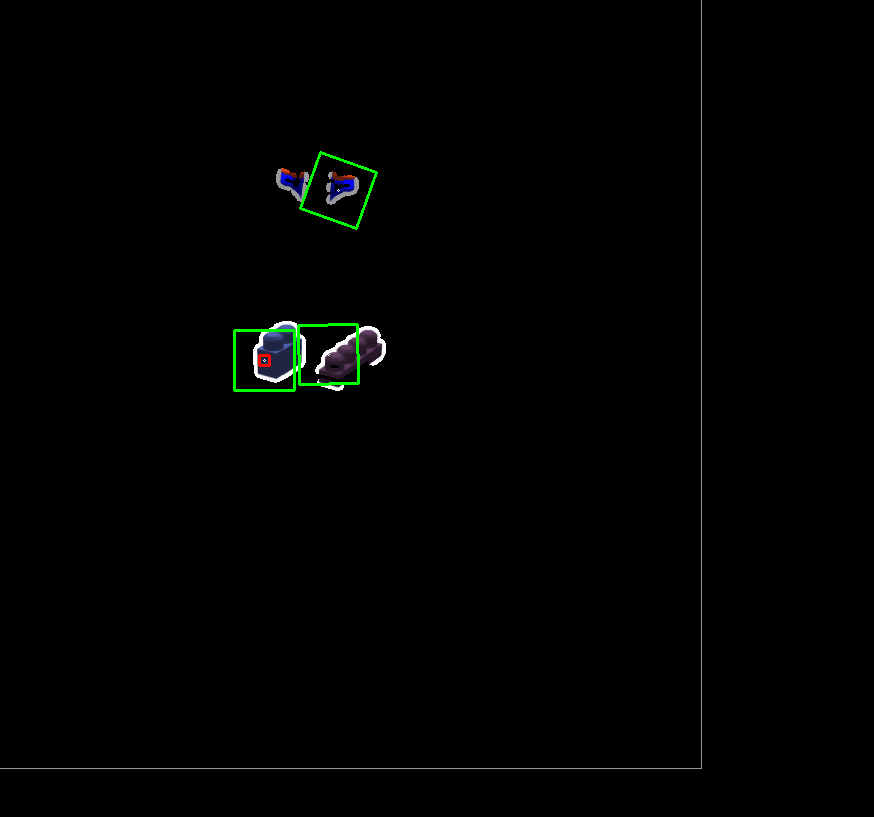
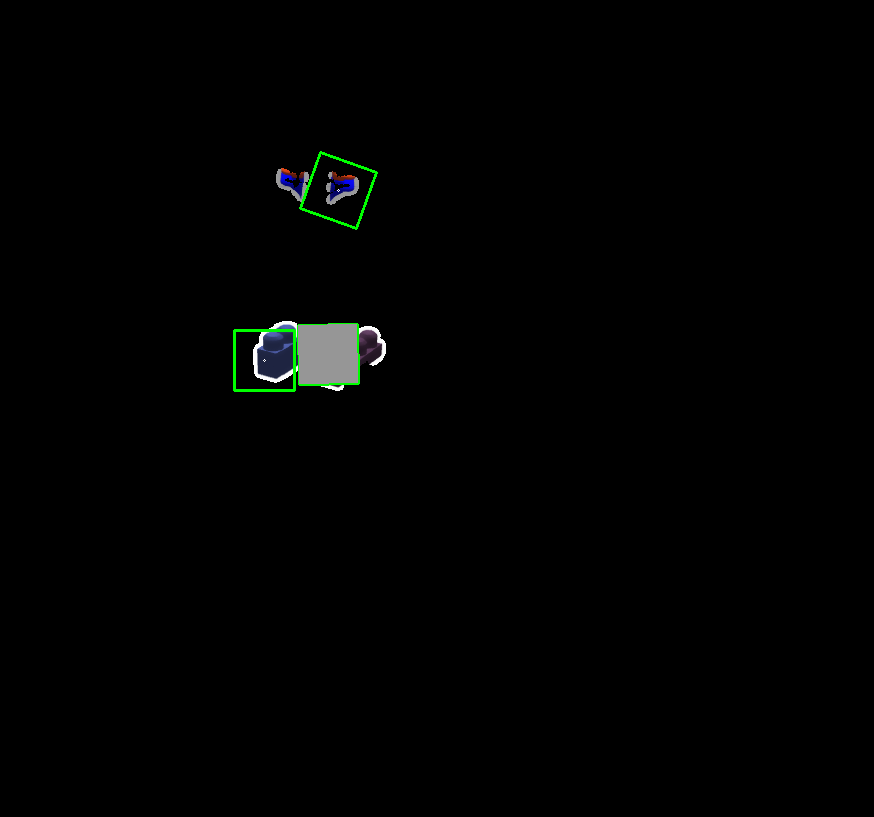
Approximation of working recognition

Changed region(s): [[0.3398, 0.3978, 0.4325, 0.4896], [0.278, 0.4284, 0.3089, 0.459]]

diff --git a/catkin_ws/src/pkg__detection/src/libraries/location_handler.cpp b/catkin_ws/src/pkg__detection/src/libraries/location_handler.cpp
@@ -1,7 +1,7 @@
 #include "location_handler.h"
 
-cv::Vec4f LocationHandler::selectDetection(std::vector<cv::Vec4f> detections, int width, int height) {
-    if (detections.empty()) {return cv::Vec4f(0.0f, 0.0f, 0.0f, 0.0f);}
+Types::RecognitionResult LocationHandler::selectDetection(std::vector<Types::RecognitionResult> detections, int width, int height) {
+    if (detections.empty()) {return Types::RecognitionResult();}
     
     // Select the detection that is cloasest to the center
     int mid_x = (float)width / 2;
@@ -10,9 +10,9 @@ cv::Vec4f LocationHandler::selectDetection(std::vector<cv::Vec4f> detections, in
     int i = 0;
     int selected = 0;
     float dist = 0;
-    for (cv::Vec4f det : detections) {
+    for (Types::RecognitionResult det : detections) {
 
-        float distance = sqrt(pow(abs(mid_x - det[0]),2) + pow(abs(mid_y - det[1]),2));
+        float distance = sqrt(pow(abs(mid_x - det.detection_rect[0]),2) + pow(abs(mid_y - det.detection_rect[1]),2));
 
         if (i == 0) {
             dist = distance;
@@ -29,17 +29,17 @@ cv::Vec4f LocationHandler::selectDetection(std::vector<cv::Vec4f> detections, in
     return detections[selected];
 }
 
-std::vector<cv::Point2i> LocationHandler::RRect2Contour(cv::Vec4f data, cv::Size2i size) {
+std::vector<cv::Point2i> LocationHandler::RRect2Contour(Types::RecognitionResult selected) {
     std::vector<cv::Point2i> contour;
 
-    cv::RotatedRect rect = cv::RotatedRect (cv::Point2f(data[0], data[1]), 
-                                            cv::Size2f(size.width * data[2], size.height * data[2]), 
-                                            data[3]);
+    cv::RotatedRect rect = cv::RotatedRect (cv::Point2f(selected.detection_rect[0], selected.detection_rect[1]), 
+                                            cv::Size2f(selected.template_size.width * selected.detection_rect[2], selected.template_size.height * selected.detection_rect[2]), 
+                                            selected.detection_rect[3]);
 
     for (int i = 0; i < 4; i++) {
-        std::cout << "Vector#" << i << " " << data[i] << std::endl;
+        std::cout << "Vector#" << i << " " << selected.detection_rect[i] << std::endl;
     }
-    std::cout << "TWidth: " << size.width << " THeight: " << size.height << std::endl;
+    std::cout << "TWidth: " << selected.template_size.width << " THeight: " << selected.template_size.height << std::endl;
 
     cv::Point2f vertices[4];
     rect.points(vertices);
@@ -52,16 +52,16 @@ std::vector<cv::Point2i> LocationHandler::RRect2Contour(cv::Vec4f data, cv::Size
     return contour;
 }
 
-cv::Vec3f LocationHandler::extrapolateDetectionPosition(cv::Mat img, cv::Vec4f selected, cv::Mat point_cloud_array, cv::Size2i template_size) {
+cv::Vec3f LocationHandler::extrapolateDetectionPosition(cv::Mat img, Types::RecognitionResult selected, cv::Mat point_cloud_array) {
 
     
-    std::vector<cv::Point2i> contour = LocationHandler::RRect2Contour(selected, template_size); 
+    std::vector<cv::Point2i> contour = LocationHandler::RRect2Contour(selected); 
     for (int i = 0; i < contour.size(); i++) {
         std::cout << "ContPt#" << i << " [" << contour[i].x << "," << contour[i].y << "]" << std::endl;
     }
 
     //MIDPOINT STUFF
-    cv::Vec4f midpoint = point_cloud_array.at<cv::Vec4f>(selected[0], selected[1]);
+    cv::Vec4f midpoint = point_cloud_array.at<cv::Vec4f>(selected.detection_rect[0], selected.detection_rect[1]);
     float midpoint_distance = midpoint[3];
 
     //AVERAGE STUFF
@@ -77,10 +77,10 @@ cv::Vec3f LocationHandler::extrapolateDetectionPosition(cv::Mat img, cv::Vec4f s
     auto pcl_lambda = [&] (f32_Pixel &pixel, const int *position) {
         int row = position[0];
         int col = position[1];
-        if (!cv::pointPolygonTest(contour, cv::Point2f((float)col,(float)row), false)) {return;}
+        if (cv::pointPolygonTest(contour, cv::Point2f((float)col,(float)row), false) != 1) {return;}
 
         float distance = sqrt(pow(pixel.x,2) + pow(pixel.y,2) + pow(pixel.z,2));
-        if (distance < 0.01f) {return;}
+        if (distance < 0.001f) {return;}
 
         float abs_dist_form_midpoint = abs(midpoint_distance - distance);
         float weight = 1 / (1 + abs_dist_form_midpoint); //Karis weight
@@ -96,7 +96,7 @@ cv::Vec3f LocationHandler::extrapolateDetectionPosition(cv::Mat img, cv::Vec4f s
     auto img_lambda = [&] (ui8_Pixel &pixel, const int *position) {
         int row = position[0];
         int col = position[1];
-        if (cv::pointPolygonTest( contour, cv::Point2f((float)col, (float)row), false ) != 0) {return;}
+        if (cv::pointPolygonTest( contour, cv::Point2f((float)col, (float)row), false ) != 1) {return;}
         
         pixel.x = 150;
         pixel.y = 150;

diff --git a/catkin_ws/src/pkg__detection/src/libraries/detection.cpp b/catkin_ws/src/pkg__detection/src/libraries/detection.cpp
@@ -15,50 +15,6 @@ Detection::DetectionResults Detection::Detect(cv::Mat pcl, cv::Mat png) {
     return Detection::detectBlocks(pcl, png);
 }
 
-Detection::DetectionResults Detection::detectGripper(cv::Mat pcl, cv::Mat png) {
-    //Crop Images
-    cv::Mat src_image  (png, setting::access.getCropRect());
-    cv::Mat data_image (pcl, setting::access.getCropRect());
-
-    if(src_image.empty() or data_image.empty()){
-        exit(EXIT_FAILURE);
-    }
-
-    cv::Size src_size = cv::Size((int)src_image.cols, (int)src_image.rows);
-
-    //IMAGE PROCESSING PIPELINE-------------------------------------
-        cv::Mat blurred;
-        pipeline::removeNoise(src_image, blurred);
-
-        //Range Operation
-        cv::Mat mask;
-        pipeline::generateMask(blurred, &mask);
-
-        //Masking Operation
-        cv::Mat result;
-        cv::Mat pcd;
-        pipeline::maskMat(blurred, result, mask);
-        pipeline::maskMat(data_image, pcd, mask);
-
-    //OBJECT RECOGNITION -------------------------------------------
-        std::vector<cv::Vec4f> detections;
-        //!NOTE CHANGE WITH GRIPPER RECOGNITION WITH DIFFERENT TEMPLATES
-        detections = recognition::runRecognition(result);
-
-    //CALCULATION OBJECT POSITION
-        cv::Vec4f selected_block;
-        selected_block = LocationHandler::selectDetection(detections, result.cols, result.rows);
-
-        cv::Vec3f detection_position;
-        detection_position = LocationHandler::extrapolateDetectionPosition(result, selected_block, pcd, pcd.size());
-
-    Detection::DetectionResults extrapolate;
-    extrapolate.position = detection_position;
-    extrapolate.image = result;
-
-    return extrapolate;
-}
-
 Detection::DetectionResults Detection::detectBlocks(cv::Mat pcl, cv::Mat png) {
     if(png.empty() or pcl.empty()){
         exit(EXIT_FAILURE);
@@ -83,20 +39,19 @@ Detection::DetectionResults Detection::detectBlocks(cv::Mat pcl, cv::Mat png) {
         pipeline::maskMat(data_image, pcd, mask);
 
     //OBJECT RECOGNITION -------------------------------------------
-        std::vector<cv::Vec4f> detections;
+        std::vector<Types::RecognitionResult> detections;
         detections = recognition::runRecognition(result);
         std::cout << "TMP: Passed detection" << std::endl;
 
     //CALCULATION OBJECT POSITION
-        cv::Vec4f selected_block;
+        Types::RecognitionResult selected_block;
         selected_block = LocationHandler::selectDetection(detections, result.cols, result.rows);
 
         //recognition::drawSelected(result, selected_block);
-        recognition::drawSelected(result, detections[1]);
+        recognition::drawSelected(result, detections[2]);
 
         cv::Vec3f detection_position;
-        //detection_position = LocationHandler::extrapolateDetectionPosition(selected_block, pcd, pcd.size());
-        detection_position = LocationHandler::extrapolateDetectionPosition(result, detections[1], pcd, pcd.size());
+        detection_position = LocationHandler::extrapolateDetectionPosition(result, detections[2], pcd);
         
     Detection::DetectionResults extrapolate;
     extrapolate.position = detection_position;

diff --git a/catkin_ws/src/pkg__detection/src/libraries/recognition.cpp b/catkin_ws/src/pkg__detection/src/libraries/recognition.cpp
@@ -1,6 +1,6 @@
 #include "recognition.h"
 
-std::vector<cv::Vec4f> recognition::runRecognition(cv::InputOutputArray img) {
+std::vector<Types::RecognitionResult> recognition::runRecognition(cv::InputOutputArray img) {
     cv::Ptr<cv::GeneralizedHoughGuil> guil = cv::createGeneralizedHoughGuil();
     std::list<cv::Mat> buffer;
     std::vector<cv::Vec4f> guilPosition;
@@ -102,7 +102,7 @@ void recognition::getImages(std::list<cv::Mat> *buffer, std::string block, std::
     }
 }
 
-std::vector<cv::Vec4f> recognition::detection(cv::Ptr<cv::GeneralizedHoughGuil> guil, std::list<cv::Mat> *buffer, cv::InputOutputArray img, std::vector<cv::Vec4f> position) {
+std::vector<Types::RecognitionResult> recognition::detection(cv::Ptr<cv::GeneralizedHoughGuil> guil, std::list<cv::Mat> *buffer, cv::InputOutputArray img, std::vector<cv::Vec4f> position) {
     cv::Mat grayscale;
     cv::cvtColor(img, grayscale, cv::COLOR_RGB2GRAY);
     int total_detections = 0;
@@ -130,7 +130,16 @@ std::vector<cv::Vec4f> recognition::detection(cv::Ptr<cv::GeneralizedHoughGuil> 
 
     std::cout << "pos_0: " << position[0][0] << " pos_1: " << position[0][1] << std::endl;
 
-    return position;
+    std::vector<Types::RecognitionResult> results;
+
+    for (int i = 0; i < position.size(); i++) {
+        Types::RecognitionResult element;
+        element.detection_rect = position[i];
+        element.template_size = pTemplate[i].size();
+        results.push_back(element);
+    }
+
+    return results;
 
 }
 
@@ -160,11 +169,11 @@ void recognition::drawResults(cv::InputOutputArray img, std::vector<cv::Vec4f> p
     }
 }
 
-void recognition::drawSelected(cv::Mat img, cv::Vec4f selection) {
+void recognition::drawSelected(cv::Mat img, Types::RecognitionResult selection) {
     int size = 10;
-    cv::RotatedRect rRect = cv::RotatedRect(cv::Point2f(selection[0], selection[1]),
-                                            cv::Size2f(size * selection[2], size * selection[2]),
-                                            selection[3]);
+    cv::RotatedRect rRect = cv::RotatedRect(cv::Point2f(selection.detection_rect[0], selection.detection_rect[1]),
+                                            cv::Size2f(size * selection.detection_rect[2], size * selection.detection_rect[2]),
+                                            selection.detection_rect[3]);
 
     cv::Point2f vertices[4];
     rRect.points(vertices);

diff --git a/catkin_ws/src/pkg__detection/src/libraries/recognition.h b/catkin_ws/src/pkg__detection/src/libraries/recognition.h
@@ -8,18 +8,19 @@
 #include <math.h>
 
 #include "settings.h"
+#include "util_types.h"
 
 namespace recognition {
 
-    std::vector<cv::Vec4f> runRecognition(cv::InputOutputArray img);
+    std::vector<Types::RecognitionResult> runRecognition(cv::InputOutputArray img);
     void setParameters(cv::Ptr<cv::GeneralizedHoughGuil> guil);
     void setDataset(cv::Ptr<cv::GeneralizedHoughGuil> guil, std::list<cv::Mat> *buffer);
     void getImagesWithRightColors(std::list<cv::Mat> *buffer, std::string block);
     void getImages(std::list<cv::Mat> *buffer, std::string block, std::string color);
-    std::vector<cv::Vec4f> detection(cv::Ptr<cv::GeneralizedHoughGuil> guil, std::list<cv::Mat> *buffer, cv::InputOutputArray img, std::vector<cv::Vec4f> position);
+    std::vector<Types::RecognitionResult> detection(cv::Ptr<cv::GeneralizedHoughGuil> guil, std::list<cv::Mat> *buffer, cv::InputOutputArray img, std::vector<cv::Vec4f> position);
 
     void drawResults(cv::InputOutputArray img, std::vector<cv::Vec4f> position, std::list<cv::Mat> *buffer, std::vector<cv::Mat> pTemplate);
-    void drawSelected(cv::Mat img, cv::Vec4f selection);
+    void drawSelected(cv::Mat img, Types::RecognitionResult selection);
     void scrapOvelappingDetections(std::vector<cv::Vec4f> *detections, std::vector<cv::Mat> *pTemplate);
     void compareRotatedRects(std::vector<cv::Vec4f> *position, std::vector<cv::Vec4f>::iterator beginning, std::vector<cv::Vec4f>::iterator ending, cv::RotatedRect rect_to_compare, int area_to_compare, int height, int width);
     bool distanceCondition(cv::Vec4f first, cv::Size2i first_size, cv::Vec4f second, cv::Size2i second_size);

diff --git a/catkin_ws/src/pkg__detection/src/libraries/location_handler.h b/catkin_ws/src/pkg__detection/src/libraries/location_handler.h
@@ -4,14 +4,16 @@
 #include <opencv2/imgproc.hpp>
 #include <iostream>
 
+#include "util_types.h"
+
 typedef cv::Point3_<uint8_t> ui8_Pixel;
 typedef cv::Point3_<float> f32_Pixel;
 
 namespace LocationHandler {
 
-    cv::Vec4f selectDetection(std::vector<cv::Vec4f> detections, int width, int height);
-    cv::Vec3f extrapolateDetectionPosition(cv::Mat img, cv::Vec4f selected, cv::Mat point_cloud_array, cv::Size2i template_size);
-    std::vector<cv::Point2i> RRect2Contour(cv::Vec4f data, cv::Size2i size);
+    Types::RecognitionResult selectDetection(std::vector<Types::RecognitionResult> detections, int width, int height);
+    cv::Vec3f extrapolateDetectionPosition(cv::Mat img, Types::RecognitionResult selected, cv::Mat point_cloud_array);
+    std::vector<cv::Point2i> RRect2Contour(Types::RecognitionResult selected);
 }   
 
 #endif

diff --git a/catkin_ws/src/pkg__detection/src/libraries/util_types.h b/catkin_ws/src/pkg__detection/src/libraries/util_types.h
@@ -1,0 +1,13 @@
+#ifndef TYPES
+#define TYPES
+
+#include <opencv2/imgproc.hpp>
+
+namespace Types {
+    struct RecognitionResult {
+        cv::Size2i template_size;
+        cv::Vec4f detection_rect;
+    }; 
+}
+
+#endif

diff --git a/catkin_ws/src/pkg__detection/src/libraries/detection.h b/catkin_ws/src/pkg__detection/src/libraries/detection.h
@@ -7,6 +7,7 @@
 #include "recognition.h"
 #include "location_handler.h"
 #include "data_type_handler.h"
+#include "util_types.h"
 
 namespace Detection {
 
